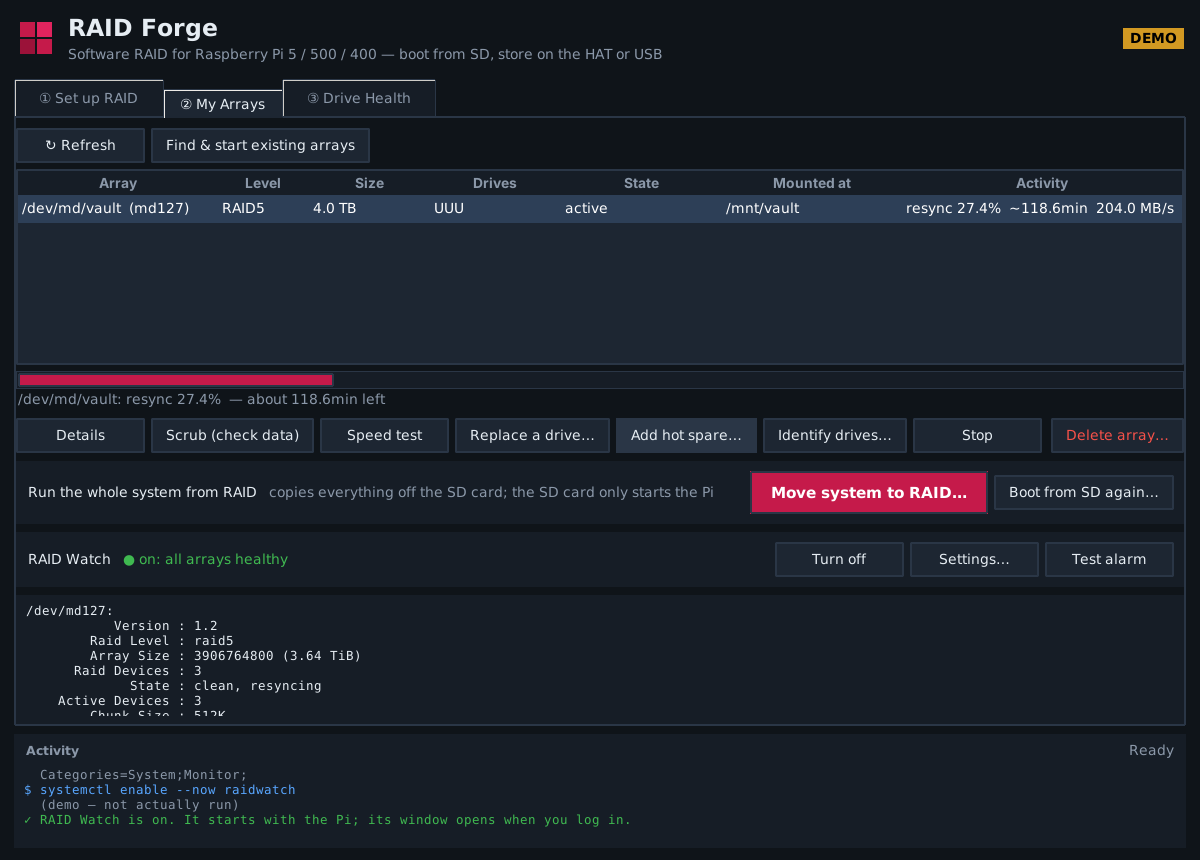
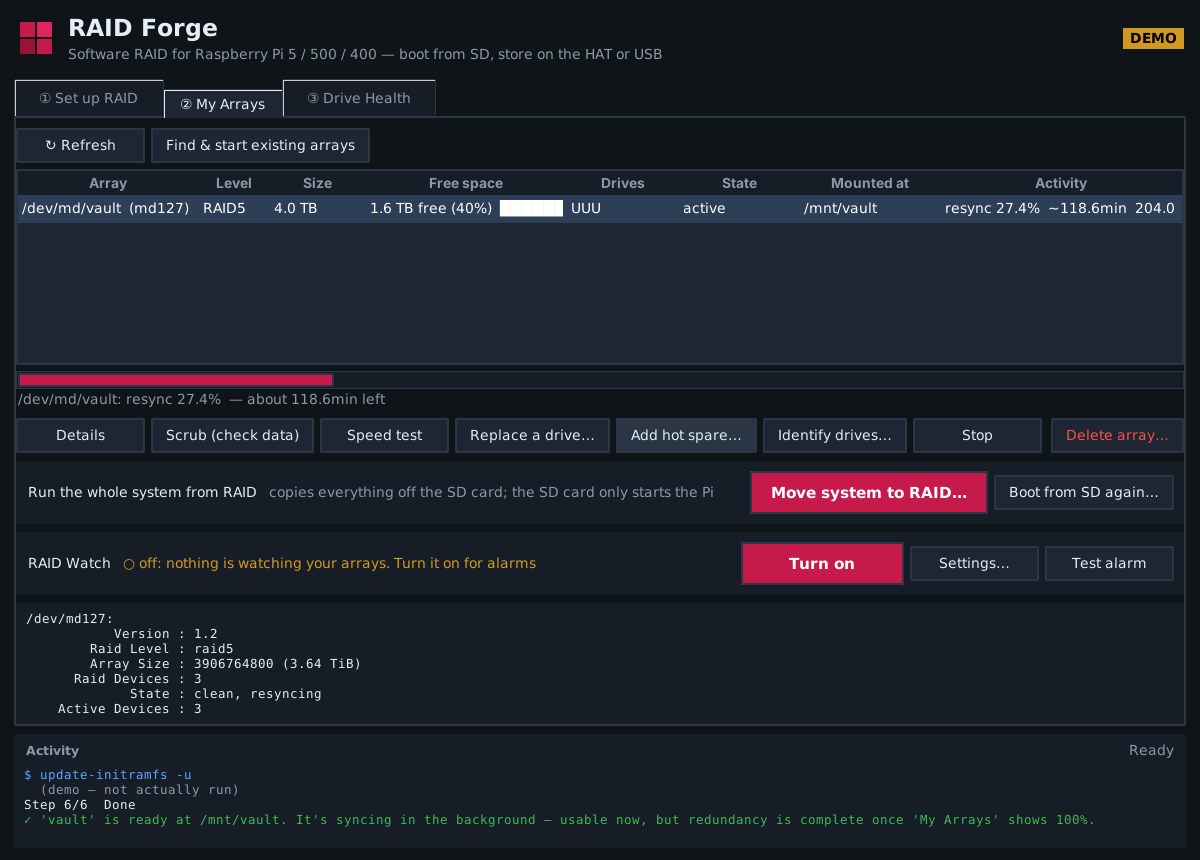
Show free space: My Arrays column, RAID Watch window and web page
Claude-Session: https://claude.ai/code/session_013eymtRZWHTpyK22CNk1Fbr

diff --git a/raidwatch.py b/raidwatch.py
@@ -32,7 +32,7 @@ import threading
 import time
 
 APP = "RAID Watch"
-VERSION = "1.1"
+VERSION = "1.2"
 DEMO = "--demo" in sys.argv
 MDSTAT = os.environ.get("RAIDWATCH_MDSTAT", "/proc/mdstat")
 RUN_DIR = os.environ.get("RAIDWATCH_RUN", "/run/raidwatch")          # status.json + ack.json (shared with the window)
@@ -133,6 +133,14 @@ def parse_mdstat(text):
     return arrays
 
 
+def human_bytes(n):
+    n = float(n or 0)
+    for unit in ("B", "KB", "MB", "GB", "TB", "PB"):
+        if n < 1000 or unit == "PB":
+            return f"{n:.0f} {unit}" if unit in ("B", "KB") else f"{n:.1f} {unit}"
+        n /= 1000
+
+
 def nice_minutes(m):
     try:
         m = float(m)
@@ -181,7 +189,8 @@ def check_arrays(arrays, configured, sysread, mounts, conf):
             alerts.append(("warn", f"mismatch:{n}",
                            f"{label}: the last data check found {mc} mismatched blocks. Run 'Scrub' again; "
                            "if it keeps happening, check the drives' health."))
-        mp, used = mounts.get(n, ("", None))
+        m = tuple(mounts.get(n, ()))
+        mp, used, free, total = (m + ("", None, None, None)[len(m):])[:4]
         if used is not None:
             if used >= conf["full_crit"]:
                 alerts.append(("crit", f"full:{n}", f"{label} ({mp}) is {used:.0f}% full. Free up space now."))
@@ -189,7 +198,7 @@ def check_arrays(arrays, configured, sysread, mounts, conf):
                 alerts.append(("warn", f"full:{n}", f"{label} ({mp}) is {used:.0f}% full."))
         rows.append(dict(name=n, label=label, level=a["level"], state="DEGRADED" if degraded else a["state"],
                          health=a["health"], op=a["op"], pct=a["pct"], finish=a.get("finish", ""),
-                         mount=mp, used=used, failed=failed, spares=spares))
+                         mount=mp, used=used, free=free, total=total, failed=failed, spares=spares))
     running = {a.get("uuid") for a in arrays if a.get("uuid")}
     for uuid, name in configured:
         if uuid not in running:
@@ -335,7 +344,7 @@ class Daemon:
                 st = os.statvfs(mp)
                 total = st.f_blocks * st.f_frsize
                 used = (st.f_blocks - st.f_bfree) * st.f_frsize
-                out[a["name"]] = (mp, 100.0 * used / total if total else None)
+                out[a["name"]] = (mp, 100.0 * used / total if total else None, st.f_bavail * st.f_frsize, total)
         return out
 
     def read_smart(self, arrays):
@@ -647,6 +656,7 @@ footer form button{padding:6px 10px;font-size:13px}
 const CSRF="%CSRF%", C={ok:"var(--ok)",info:"var(--info)",warn:"var(--warn)",crit:"var(--crit)"};
 const W={ok:"All RAID arrays healthy",info:"Healthy, working on something",warn:"Needs a look",crit:"RAID NEEDS SERVICE"};
 const $=id=>document.getElementById(id);
+function hb(n){const u=["B","KB","MB","GB","TB","PB"];let i=0;while(n>=1000&&i<5){n/=1000;i++}return n.toFixed(i<2?0:1)+" "+u[i]}
 function el(tag,cls,text){const e=document.createElement(tag);if(cls)e.className=cls;if(text!=null)e.textContent=text;return e}
 function row(level,text,acked){const r=el("div","row"+(acked?" acked":""));const d=el("span","dot");d.style.background=C[level];
  r.append(d,el("span","",text+(acked?"  (silenced)":"")));return r}
@@ -661,7 +671,7 @@ async function load(){const s=await api("/api/status");if(!s)return;
  const L=$("list");L.replaceChildren();(s.alerts||[]).forEach(a=>L.append(row(a.level,a.text,a.acked)));
  (s.infos||[]).forEach(i=>L.append(row("info",i)));if(!L.children.length)L.append(row("ok","Everything is healthy."));
  const A=$("arrays");A.replaceChildren();(s.arrays||[]).forEach(r=>A.append(row(r.state==="DEGRADED"?"crit":"ok",
-  r.label+"  "+r.level.toUpperCase()+" ["+r.health+"]  "+(r.mount||"not mounted")+(r.used!=null?", "+r.used.toFixed(0)+"% full":""))));
+  r.label+"  "+r.level.toUpperCase()+" ["+r.health+"]  "+(r.mount||"not mounted")+(r.free!=null?", "+hb(r.free)+" free of "+hb(r.total)+" ("+(100-r.used).toFixed(0)+"%)":r.used!=null?", "+r.used.toFixed(0)+"% full":""))));
  if(!A.children.length)A.append(el("div","mut","No RAID arrays yet."));
  const T=$("temps");T.replaceChildren();const ts=Object.entries(s.temps||{});
  if(s.cpu_temp!=null)ts.unshift(["CPU",s.cpu_temp]);ts.forEach(([k,v])=>T.append(el("span","t",k+" "+Math.round(v)+" °C")));
@@ -848,11 +858,11 @@ def demo_status():
     now = time.time()
     return {"time": now, "level": "crit", "host": "pi5", "version": VERSION, "sound": True,
             "arrays": [{"name": "md127", "label": "/dev/md/vault", "level": "raid1", "state": "DEGRADED",
-                        "health": "U_", "op": "", "pct": None, "finish": "", "mount": "/mnt/vault", "used": 61.2,
+                        "health": "U_", "op": "", "pct": None, "finish": "", "mount": "/mnt/vault", "used": 61.2, "free": 1_529_000_000_000, "total": 3_940_000_000_000,
                         "failed": ["sdb"], "spares": []},
                        {"name": "md126", "label": "/dev/md/media", "level": "raid5", "state": "active",
                         "health": "UUU", "op": "check", "pct": 42.0, "finish": "38", "mount": "/mnt/media",
-                        "used": 91.4, "failed": [], "spares": []}],
+                        "used": 91.4, "free": 516_000_000_000, "total": 6_000_000_000_000, "failed": [], "spares": []}],
             "infos": ["/dev/md/media: Checking 42.0%, about 38 min left"],
             "alerts": [{"level": "crit", "id": "failed:md127", "acked": False, "since": now - 300,
                         "text": "/dev/md/vault: drive /dev/sdb failed. Replace it soon (RAID Forge > My Arrays > "
@@ -880,7 +890,7 @@ def window():
     wav = alarm_wav(os.path.expanduser("~/.cache/raidwatch/alarm.wav"))
     root = tk.Tk()
     root.title(APP + (" (demo)" if DEMO else ""))
-    root.geometry("460x330")
+    root.geometry("480x430")
     root.minsize(380, 260)
     root.configure(bg=BG)
     try:
@@ -953,12 +963,18 @@ def window():
             body.insert("end", i + "\n\n")
         if not s.get("alerts"):
             for r in s.get("arrays", []):
-                used = f", {r['used']:.0f}% full" if r.get("used") is not None else ""
+                used = (f", {human_bytes(r['free'])} free of {human_bytes(r['total'])}" if r.get("free") is not None
+                        else f", {r['used']:.0f}% full" if r.get("used") is not None else "")
                 body.insert("end", "● ", "ok")
                 body.insert("end", f"{r['label']}  ", "bold")
                 body.insert("end", f"{r['level'].upper()} [{r['health']}]  {r['mount'] or 'not mounted'}{used}\n")
             if not s.get("arrays"):
                 body.insert("end", "No RAID arrays on this Pi yet. Build one in RAID Forge.\n", "muted")
+        spaced = [r for r in s.get("arrays", []) if r.get("free") is not None]
+        if s.get("alerts") and spaced:
+            body.insert("end", "\nFree space  ", "muted")
+            body.insert("end", "  ·  ".join(f"{r['label'].split('/')[-1]} {human_bytes(r['free'])} "
+                                            f"({100 - r['used']:.0f}%)" for r in spaced) + "\n")
         temps = list((s.get("temps") or {}).items())
         if s.get("cpu_temp") is not None:
             temps.insert(0, ("CPU", s["cpu_temp"]))

diff --git a/raidforge.py b/raidforge.py
@@ -23,7 +23,7 @@ import tkinter as tk
 from tkinter import messagebox, simpledialog, ttk
 
 APP = "RAID Forge"
-VERSION = "1.5"
+VERSION = "1.6"
 DEMO = "--demo" in sys.argv or os.environ.get("RAIDFORGE_DEMO") == "1"
 USER = os.environ.get("SUDO_USER") or getpass.getuser()
 
@@ -215,6 +215,16 @@ HATS = [
     ("Quad NVMe HAT (PCIe switch)", "Up to 4 NVMe drives behind a PCIe switch. Use PCIe Gen 2."),
     ("USB 3 drives / USB HAT / dock", "Works on Pi 5, Pi 500 and Pi 400 (blue USB 3 ports). Use a powered hub or dock for 2.5\"/3.5\" drives."),
 ]
+
+
+def free_text(space):
+    """'1.6 TB free of 3.9 TB (60%) ▕██████░░░░▏' style text for the arrays table."""
+    if not space or not space[1]:
+        return "— (not mounted)"
+    free, total = space
+    pct = 100 * free / total
+    used = round((100 - pct) / 10)
+    return f"{human(free)} free ({pct:.0f}%)  " + "█" * used + "░" * (10 - used)
 
 
 def human(n):
@@ -477,6 +487,18 @@ class System:
         except OSError:
             pass
         return f"/dev/{mdname}"
+
+    def space(self, mount):
+        """(free_bytes, total_bytes) of a mounted filesystem, or None."""
+        if DEMO and mount:
+            return (1_558_000_000_000, 3_940_000_000_000)
+        if not mount:
+            return None
+        try:
+            st = os.statvfs(mount)
+        except OSError:
+            return None
+        return (st.f_bavail * st.f_frsize, st.f_blocks * st.f_frsize)
 
     def mountpoint_of(self, dev):
         if DEMO:
@@ -1170,10 +1192,10 @@ class App(tk.Tk):
         top.pack(fill="x", pady=(10, 6))
         ttk.Button(top, text="↻ Refresh", command=self.refresh_all).pack(side="left")
         ttk.Button(top, text="Find & start existing arrays", command=self.assemble).pack(side="left", padx=6)
-        cols = ("dev", "level", "size", "health", "state", "mount", "progress")
+        cols = ("dev", "level", "size", "free", "health", "state", "mount", "progress")
         self.atree = ttk.Treeview(root, columns=cols, show="headings", height=6, selectmode="browse")
-        for c, t, w in zip(cols, ("Array", "Level", "Size", "Drives", "State", "Mounted at", "Activity"),
-                           (180, 70, 100, 110, 140, 160, 260)):
+        for c, t, w in zip(cols, ("Array", "Level", "Size", "Free space", "Drives", "State", "Mounted at", "Activity"),
+                           (170, 60, 85, 190, 100, 110, 130, 230)):
             self.atree.heading(c, text=t)
             self.atree.column(c, width=w, anchor="w")
         self.atree.pack(fill="x")
@@ -1239,13 +1261,16 @@ class App(tk.Tk):
                 if a["finish"]:
                     act += f"  ~{a['finish']}  {a['speed']}"
                 best = best or a
-            tag = "bad" if degraded or a["state"] != "active" else ("warn" if a["op"] else "good")
+            sp = a.get("space")
+            low = sp and sp[1] and sp[0] / sp[1] * 100
+            tag = "bad" if degraded or a["state"] != "active" or (sp and low < 2) else \
+                ("warn" if a["op"] or (sp and low < 10) else "good")
             self.atree.insert("", "end", iid=a["name"], tags=(tag,),
                               values=(f"{a['alias']}  ({a['name']})", a["level"].upper(),
-                                      human(a["size"]) if a["size"] else "—", drives, state,
+                                      human(a["size"]) if a["size"] else "—", free_text(a.get("space")), drives, state,
                                       a["mount"] or "not mounted", act or "idle ✓"))
         if not arrays:
-            self.atree.insert("", "end", iid="_none", values=("No arrays yet — build one on tab ①", "", "", "", "", "", ""))
+            self.atree.insert("", "end", iid="_none", values=("No arrays yet — build one on tab ①", "", "", "", "", "", "", ""))
         if sel and self.atree.exists(sel):
             self.atree.selection_set(sel)
         elif arrays and not self.atree.selection():
@@ -2430,6 +2455,7 @@ Categories=System;Monitor;
         for a in arrays:
             a["alias"] = self.sys.md_alias(a["name"])
             a["mount"] = self.sys.mountpoint_of(f"/dev/{a['name']}")
+            a["space"] = self.sys.space(a["mount"])
         return arrays
 
     def _auto_refresh(self):

diff --git a/README.md b/README.md
@@ -29,7 +29,7 @@ Then open **Menu → System Tools → RAID Forge**. Use **RAID Forge (Demo)** fi
 - Name it, choose a mount folder, ext4 or XFS, chunk size, and whether it auto-mounts at boot
 - Type `ERASE` to confirm → wipes, creates the array, formats (stripe-aligned), mounts, writes `mdadm.conf` + `fstab` (`nofail`, so the Pi still boots if the HAT is unplugged), updates initramfs
 
-**② My Arrays** — live status every 3 s with sync/rebuild progress, details, scrub, speed test, replace a failed drive, add a hot spare, stop, re-assemble, delete (also cleans up fstab/mdadm.conf)
+**② My Arrays** — live status every 3 s with **free space** (amber under 10%, red under 2%), sync/rebuild progress, details, scrub, speed test, replace a failed drive, add a hot spare, stop, re-assemble, delete (also cleans up fstab/mdadm.conf)
 
 **Move system to RAID** (on My Arrays) — runs the whole system from the array; the SD card only starts the Pi
 - Checks first: system is on the SD card, array is healthy and big enough, startup files (initramfs) can find RAID
